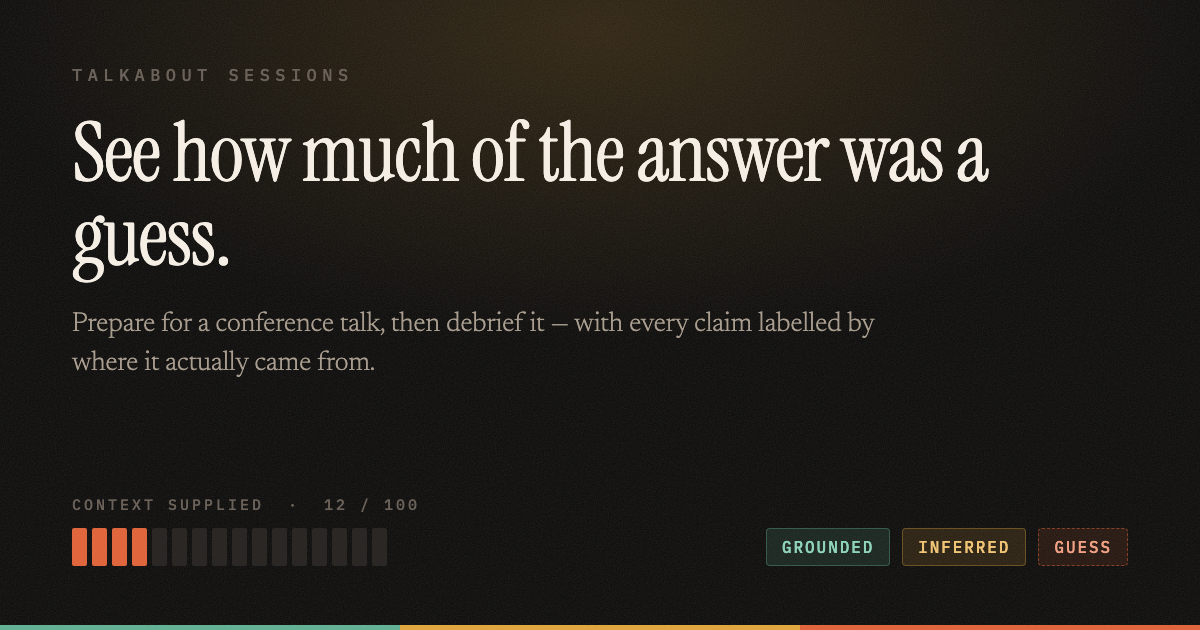
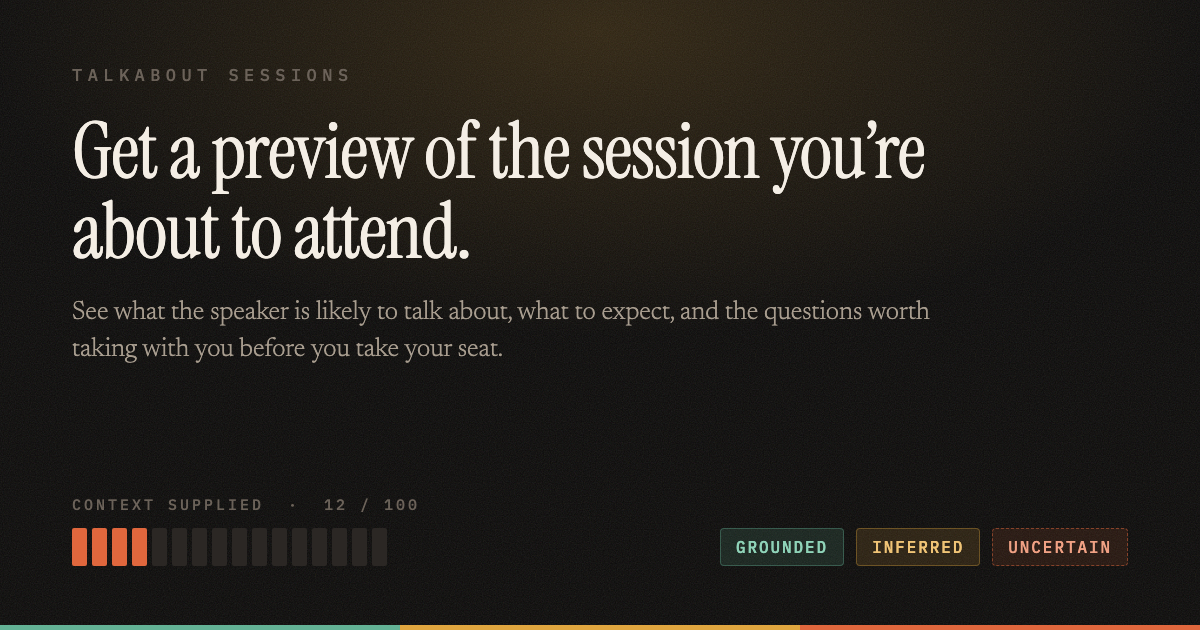
Lead the social card with the attendee's benefit, and rename the tag
The card opened on the mechanism ("see how much of the answer was a
guess") rather than on the reason to click. It now leads with what the
attendee gets:

  Get a preview of the session you're about to attend.
  See what the speaker is likely to talk about, what to expect, and the
  questions worth taking with you before you take your seat.

The third grounding tag is renamed guess -> uncertain, and the rename is
carried through the whole UI rather than just the card, so the preview
does not advertise a label the app never shows: the tag itself, the
ledger column, the comparison header and count, the loading caption, the
thin- and partial-context advice, and the OG/Twitter descriptions.

The schema enum stays `speculation` and the system prompt keeps its
wording — that is the contract with the model, and rewording it would
change calibration and need re-testing for no user-visible gain.

Verified: no occurrence of "guess" left anywhere in the rendered UI.

diff --git a/src/components/BriefingView.tsx b/src/components/BriefingView.tsx
@@ -6,7 +6,7 @@ import type { Briefing, BriefingRun, Grounding, Prediction } from "@/lib/types";
 const GROUNDING_COPY: Record<Grounding, { label: string; meaning: string }> = {
   grounded: { label: "grounded", meaning: "restates something you supplied" },
   inferred: { label: "inferred", meaning: "a short step from what you supplied" },
-  speculation: { label: "guess", meaning: "the topic name and general knowledge" },
+  speculation: { label: "uncertain", meaning: "the topic name and general knowledge" },
 };
 
 export function GroundingTag({ value }: { value: Grounding }) {
@@ -104,7 +104,7 @@ export function GroundingLedger({ briefing }: { briefing: Briefing }) {
         {segments.map((s) => (
           <div key={s.key}>
             <dt className="font-mono text-[0.5625rem] uppercase tracking-[0.1em] text-ink-faint">
-              {s.key === "speculation" ? "guessed" : s.key}
+              {s.key === "speculation" ? "uncertain" : s.key}
             </dt>
             <dd className="font-display text-2xl leading-none text-ink">{s.n}</dd>
           </div>

diff --git a/src/components/RunHistory.tsx b/src/components/RunHistory.tsx
@@ -122,7 +122,7 @@ export function CompareView({ a, b }: { a: BriefingRun; b: BriefingRun }) {
           </div>
           <div>
             <dt className="font-mono text-[0.5625rem] uppercase tracking-[0.1em] text-ink-faint">
-              Guessed claims
+              Uncertain claims
             </dt>
             <dd className="font-display text-3xl leading-none text-ink">
               {specDelta > 0 ? "+" : ""}
@@ -152,7 +152,7 @@ export function CompareView({ a, b }: { a: BriefingRun; b: BriefingRun }) {
                 {i === 0 ? "Less context" : "More context"} · {run.score.value}/100
               </p>
               <p className="font-mono text-[0.5625rem] text-ink-faint">
-                {leftTally.total ? `${tally(run).speculation} guesses` : ""}
+                {leftTally.total ? `${tally(run).speculation} uncertain` : ""}
               </p>
             </div>
 

diff --git a/src/lib/context-score.ts b/src/lib/context-score.ts
@@ -138,13 +138,13 @@ export const TIER_COPY: Record<
     label: "Thin context",
     verdict: "Mostly pattern-matching on the title.",
     advice:
-      "Expect plausible-sounding guesses. Read the output as a hypothesis, not a briefing.",
+      "Most of what comes back will be marked uncertain. Read it as a hypothesis, not a briefing.",
   },
   partial: {
     label: "Partial context",
     verdict: "Grounded in places, inventing in others.",
     advice:
-      "The mix is the risk: correct claims sit beside confident guesses. Check the tags.",
+      "The mix is the risk: grounded claims sit beside uncertain ones. Check the tags.",
   },
   rich: {
     label: "Rich context",

diff --git a/src/app/layout.tsx b/src/app/layout.tsx
@@ -47,7 +47,7 @@ export const metadata: Metadata = {
   openGraph: {
     title: "TalkAbout Sessions",
     description:
-      "Give it a little about a talk, or give it a lot.",
+      "Get a preview of the session you're about to attend.",
     type: "website",
     siteName: "TalkAbout Sessions",
   },
@@ -55,7 +55,7 @@ export const metadata: Metadata = {
     card: "summary_large_image",
     title: "TalkAbout Sessions",
     description:
-      "See how much of an AI's answer was grounded in what you gave it, and how much was guessed.",
+      "See what the speaker is likely to cover, what to expect, and the questions worth taking with you."
   },
 };
 

diff --git a/src/components/Feedback.tsx b/src/components/Feedback.tsx
@@ -15,7 +15,7 @@ const BRIEFING_STAGES = [
   "Noting what you left out",
   "Judging how much it can honestly claim",
   "Drafting predictions",
-  "Tagging each one as grounded, inferred or guessed",
+  "Tagging each one as grounded, inferred or uncertain",
 ];
 
 const DEBRIEF_STAGES = [

diff --git a/README.md b/README.md
@@ -64,7 +64,7 @@ Every session is stored in `localStorage` and listed in the sidebar, ChatGPT-sty
 
 The **grounding ledger** tallies this. It is the number the talk turns on:
 
-| Context | Confidence | Grounded | Inferred | Guessed |
+| Context | Confidence | Grounded | Inferred | Uncertain |
 |---|---|---|---|---|
 | Title only (12/100) | low | 0 | 0 | **8** |
 | Everything (99/100) | high | 1 | 8 | 2 |
